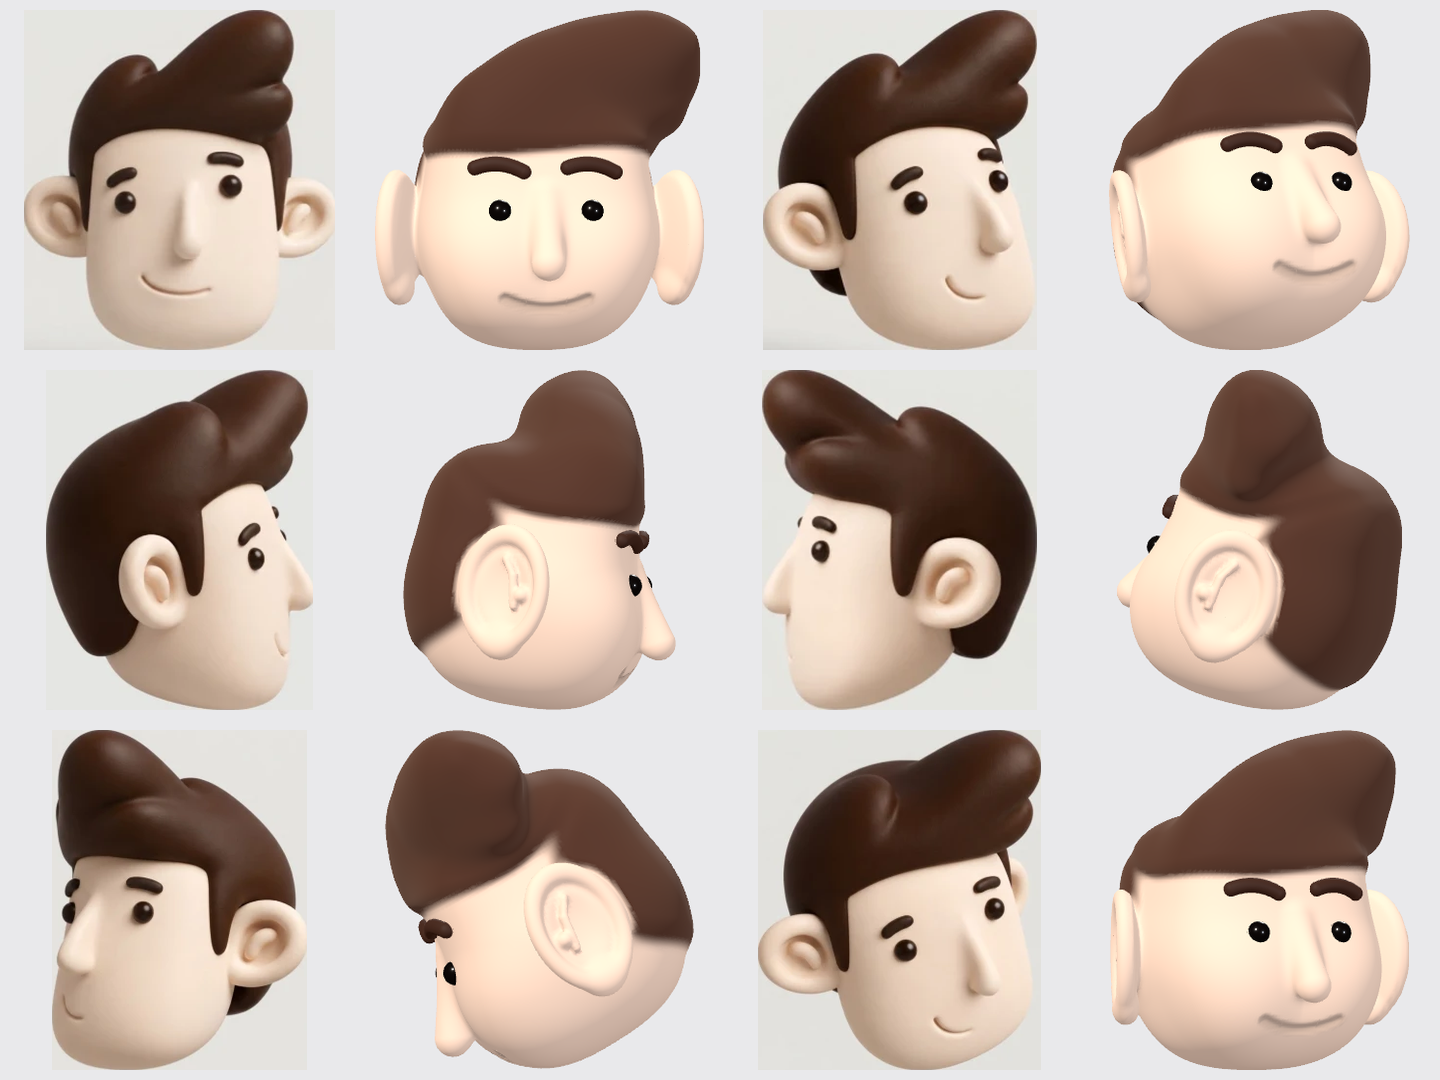
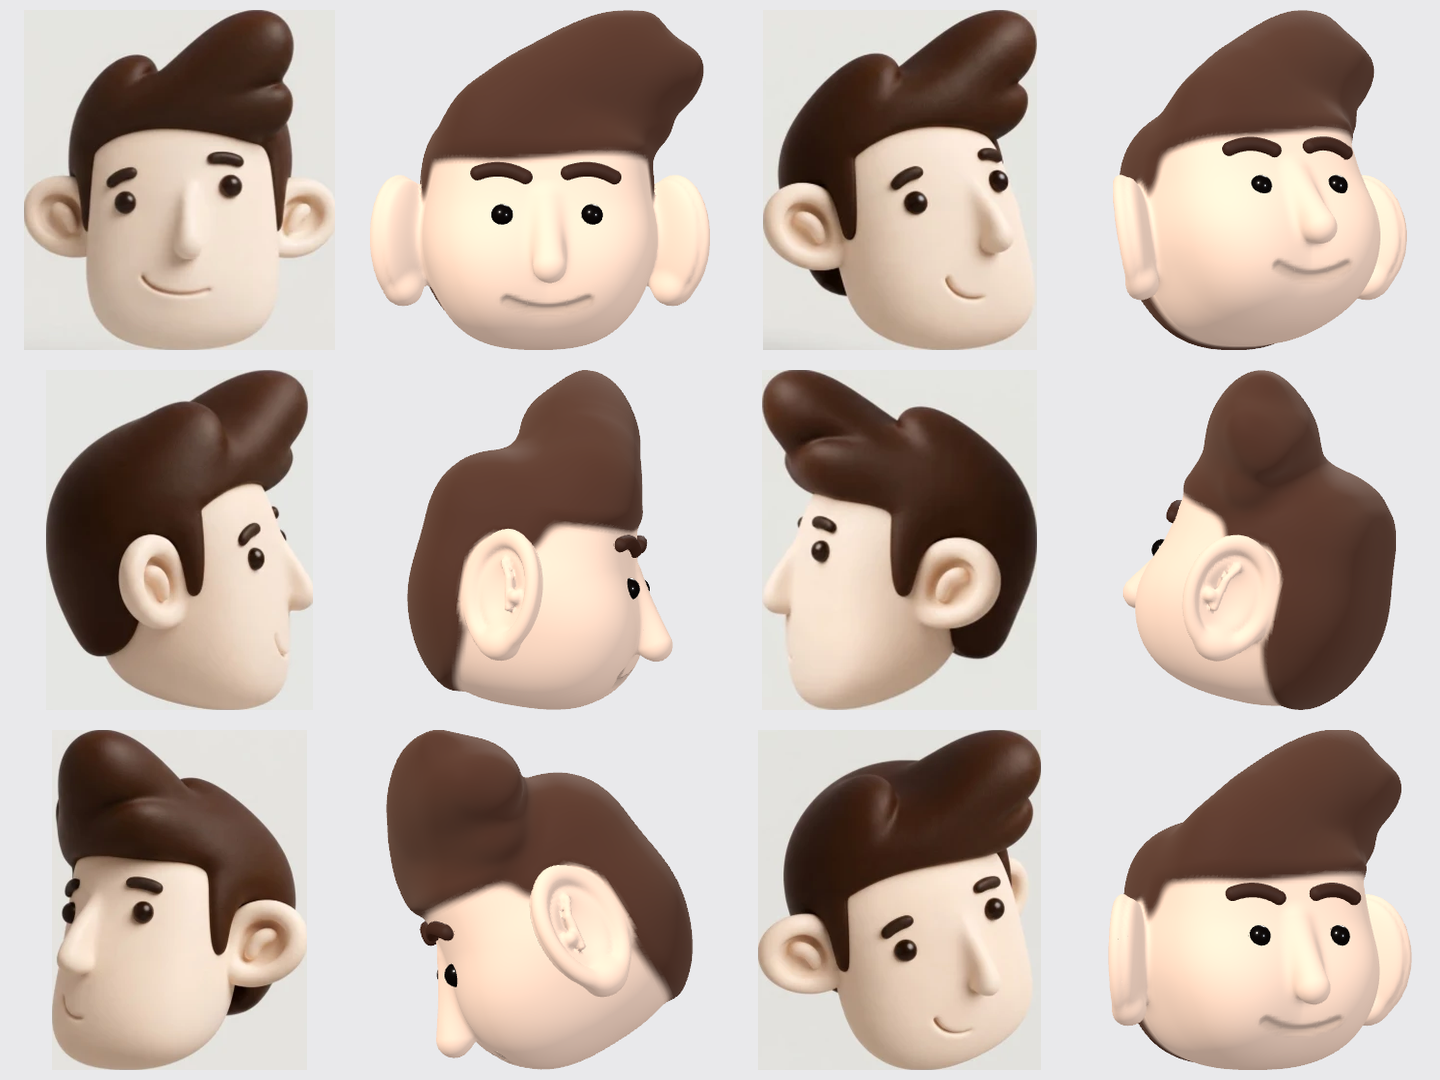
Clay head v4: rounder back-of-head hair with a temple region, three wing flutes, ears cupped and angled forward; latest-compare.png

diff --git a/src/figures/faces/clay/params.js b/src/figures/faces/clay/params.js
@@ -9,17 +9,17 @@ export const DEFAULT = {
     cheek: { x: 0.46, y: -0.3, z: 0.5, r: 0.4 }, cheekBlend: 0.3,
     taper: 0.1,   // the jaw narrows toward the chin (fraction of the width at the chin)
   },
-  ear: { x: 1.16, y: -0.02, z: -0.08, ry: 0.52, rz: 0.4, rx: 0.14, toeIn: 24, bowl: 1.0, fold: 1.0, lobe: 1.0 },
+  ear: { x: 1.16, y: -0.02, z: -0.08, ry: 0.52, rz: 0.4, rx: 0.2, toeIn: 38, bowl: 1.3, fold: 1.0, lobe: 1.0 },
   nose: { bridgeY: 0.28, tipY: -0.3, tipZ: 0.26, r0: 0.075, r1: 0.15, width: 1.0, tilt: 0 },
   eye: { x: 0.4, y: 0.16, r: 0.1, color: "#0b0706", gap: 0 },
   brow: { x: 0.4, y: 0.52, len: 0.42, thick: 0.065, arch: 0.05, tilt: 10, color: "#3a1e12" },
   mouth: { y: -0.68, width: 0.36, curve: 0.45, depth: 0.034, tuck: 0.0, open: 0, smileL: 0, smileR: 0 },
   hair: {
     color: "#4a2616", roughness: 0.5, edgeBlend: 0.05,
-    cap: { thick: 0.07, region: [{ c: [0, 1.18, 0.1], r: [1.5, 0.7, 1.0] }, { c: [0, 0.2, -0.75], r: [1.3, 0.9, 0.95] }] },
+    cap: { thick: 0.07, region: [{ c: [0, 1.18, 0.1], r: [1.5, 0.7, 1.0] }, { c: [0, -0.05, -0.92], r: [1.3, 1.1, 0.78] }, { c: [0, 0.6, -0.35], r: [1.3, 0.62, 0.75] }] },
     // the wing: a spine of [x, y, z, r] sweeping up from the forehead's left and out to the right, tapering; flutes are short spines fanning off its end
     wing: { spine: [[-0.4, 1.0, 0.4, 0.40], [0.0, 1.2, 0.3, 0.46], [0.4, 1.34, 0.15, 0.46], [0.82, 1.4, 0.0, 0.40], [1.15, 1.36, -0.1, 0.26]],
-      flutes: [[[0.45, 1.3, 0.15, 0.34], [0.8, 1.12, 0.1, 0.28], [1.1, 1.02, 0.0, 0.15]], [[0.55, 1.42, 0.2, 0.32], [0.95, 1.62, 0.12, 0.26], [1.25, 1.64, 0.0, 0.12]]] },
+      flutes: [[[0.35, 1.3, 0.18, 0.36], [0.7, 1.12, 0.12, 0.3], [1.0, 0.98, 0.04, 0.16]], [[0.5, 1.4, 0.2, 0.34], [0.95, 1.52, 0.14, 0.28], [1.3, 1.5, 0.04, 0.14]], [[0.3, 1.4, 0.3, 0.3], [0.62, 1.7, 0.2, 0.24], [0.95, 1.86, 0.08, 0.1]]] },
     swooshBlend: 0.3,
   },
   light: { exposure: 1.0 },
